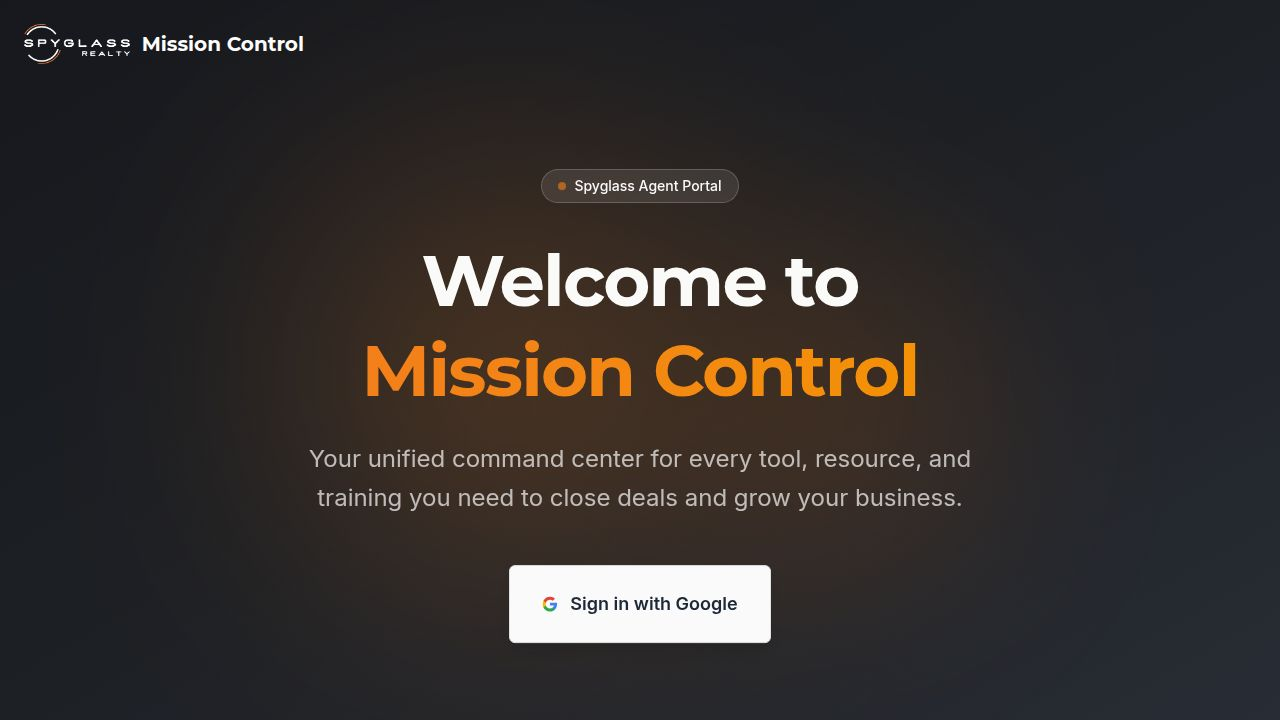
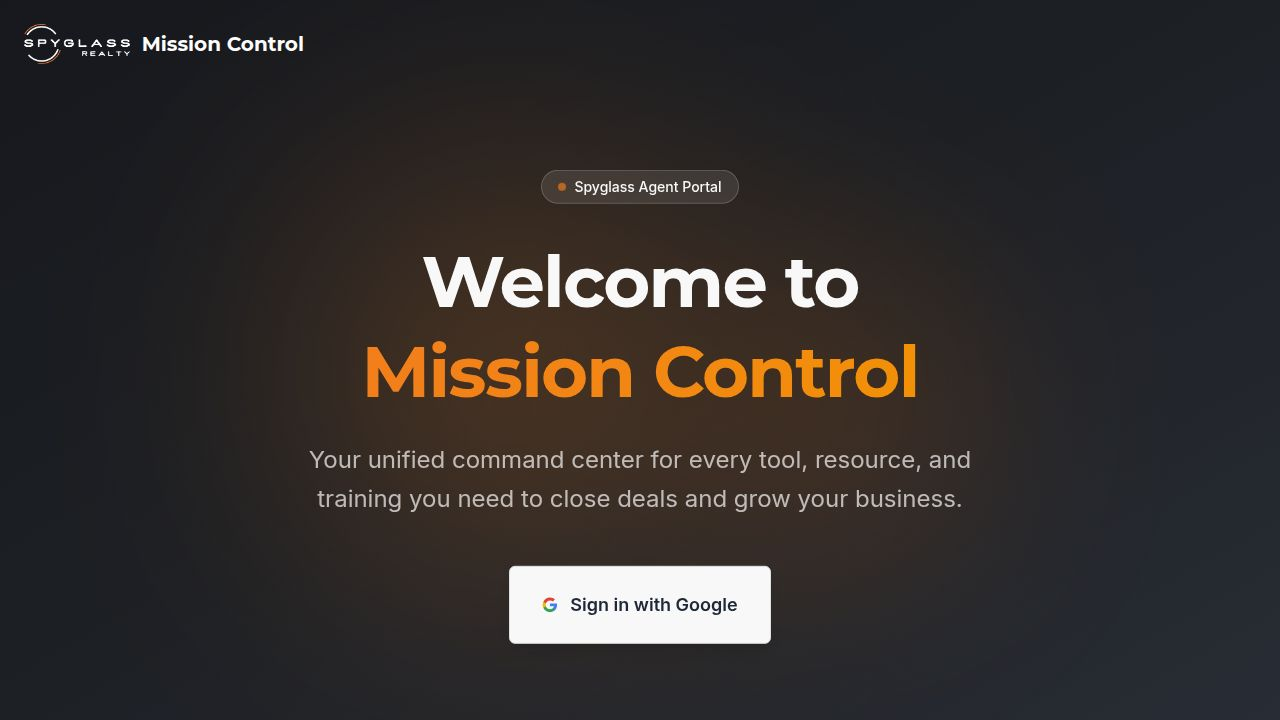
Ensure main content area respects dark mode theme styling
Update the main content wrapper in Layout.tsx to use the `bg-background` Tailwind CSS class, ensuring consistent dark mode background colors across the application.

Replit-Commit-Author: Agent
Replit-Commit-Session-Id: 19ef192b-2e12-4964-a3dc-d6b03cc53157
Replit-Commit-Checkpoint-Type: full_checkpoint
Replit-Commit-Event-Id: 14fa0a18-9d6e-4109-8e68-86870f2037c5
Replit-Commit-Screenshot-Url: https://storage.googleapis.com/screenshot-production-us-central1/80c11dad-da81-40c0-aa2d-21a3551e4b72/19ef192b-2e12-4964-a3dc-d6b03cc53157/P5FtzVD
Replit-Helium-Checkpoint-Created: true

diff --git a/client/src/components/layout.tsx b/client/src/components/layout.tsx
@@ -176,7 +176,7 @@ export default function Layout({ children }: { children: React.ReactNode }) {
         <SidebarContent />
       </aside>
 
-      <main className="flex-1 md:ml-64 flex flex-col min-h-screen transition-all duration-300">
+      <main className="flex-1 md:ml-64 flex flex-col min-h-screen transition-all duration-300 bg-background">
         <header className="h-16 border-b border-border bg-background/95 backdrop-blur-sm sticky top-0 z-20 px-4 md:px-8 flex items-center justify-between">
           <div className="flex items-center gap-2 sm:gap-4 md:hidden">
              <Sheet open={isMobileOpen} onOpenChange={setIsMobileOpen}>
